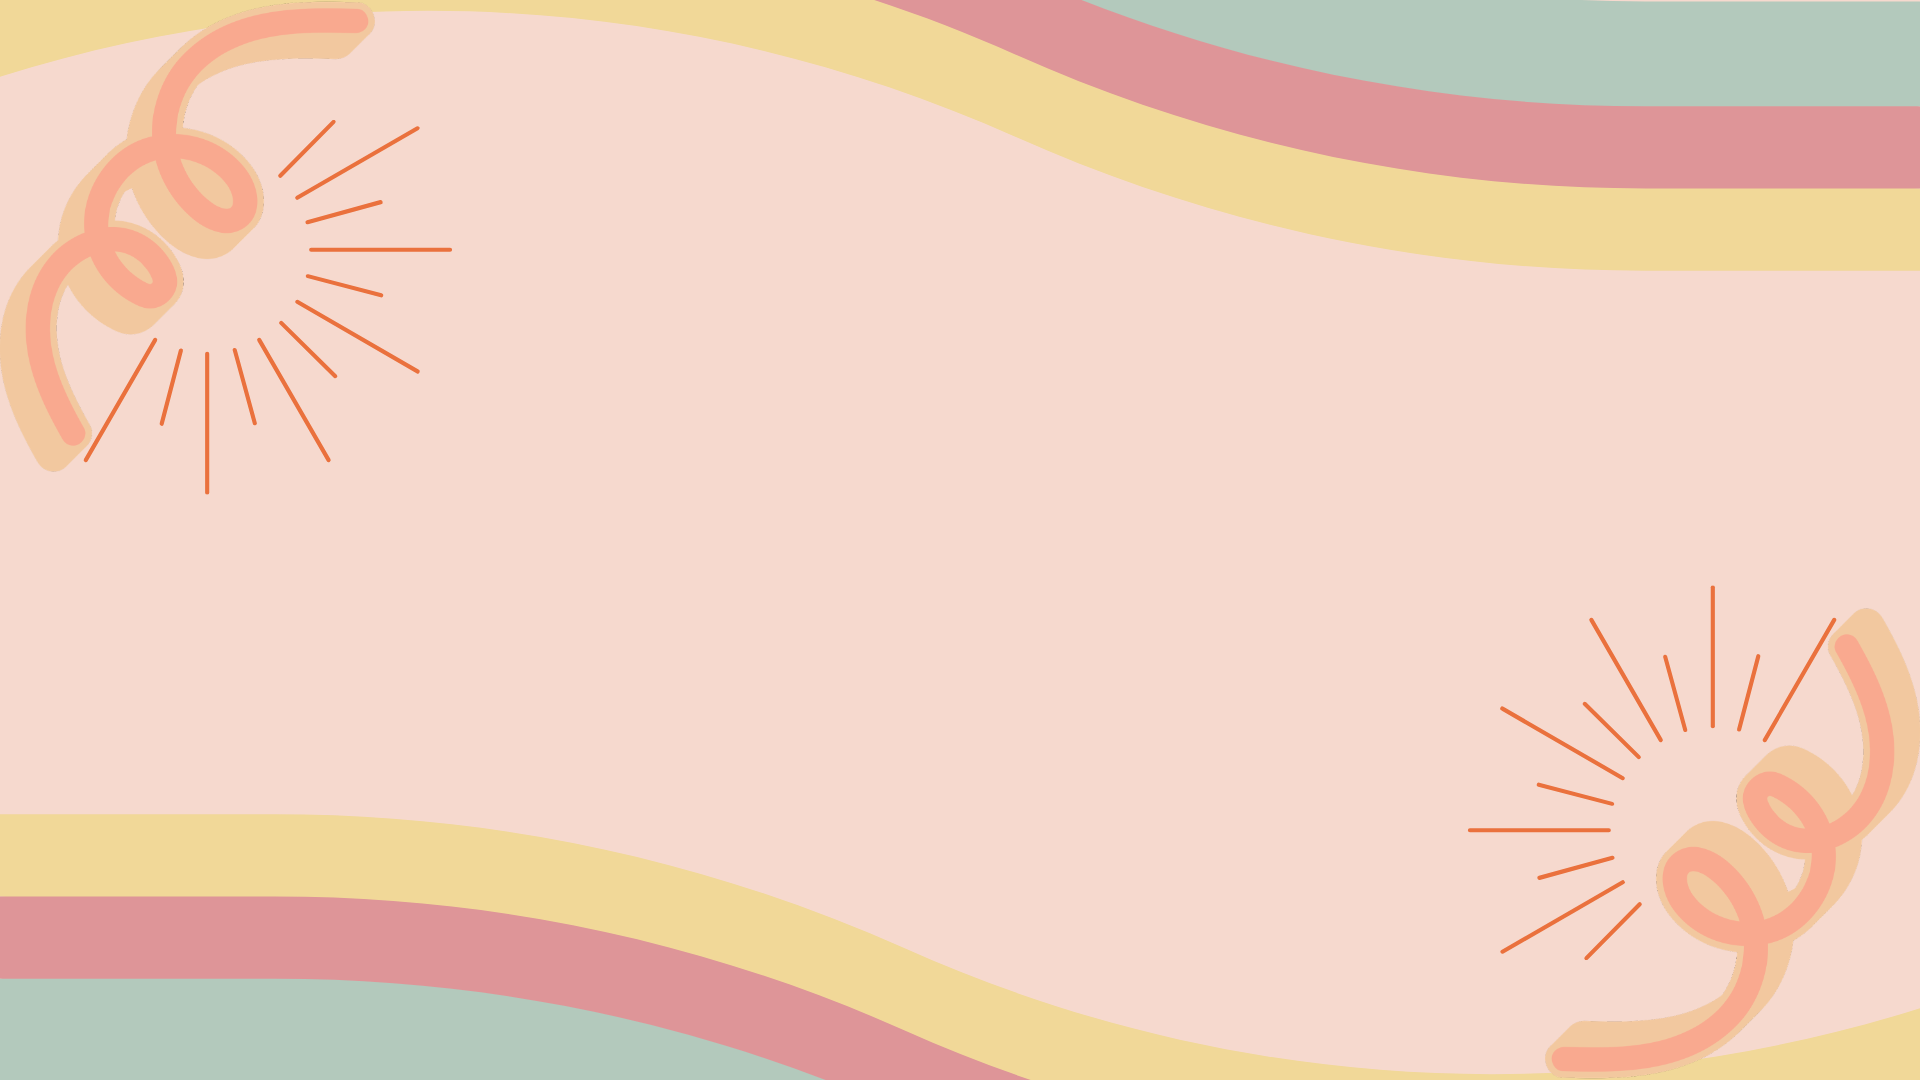
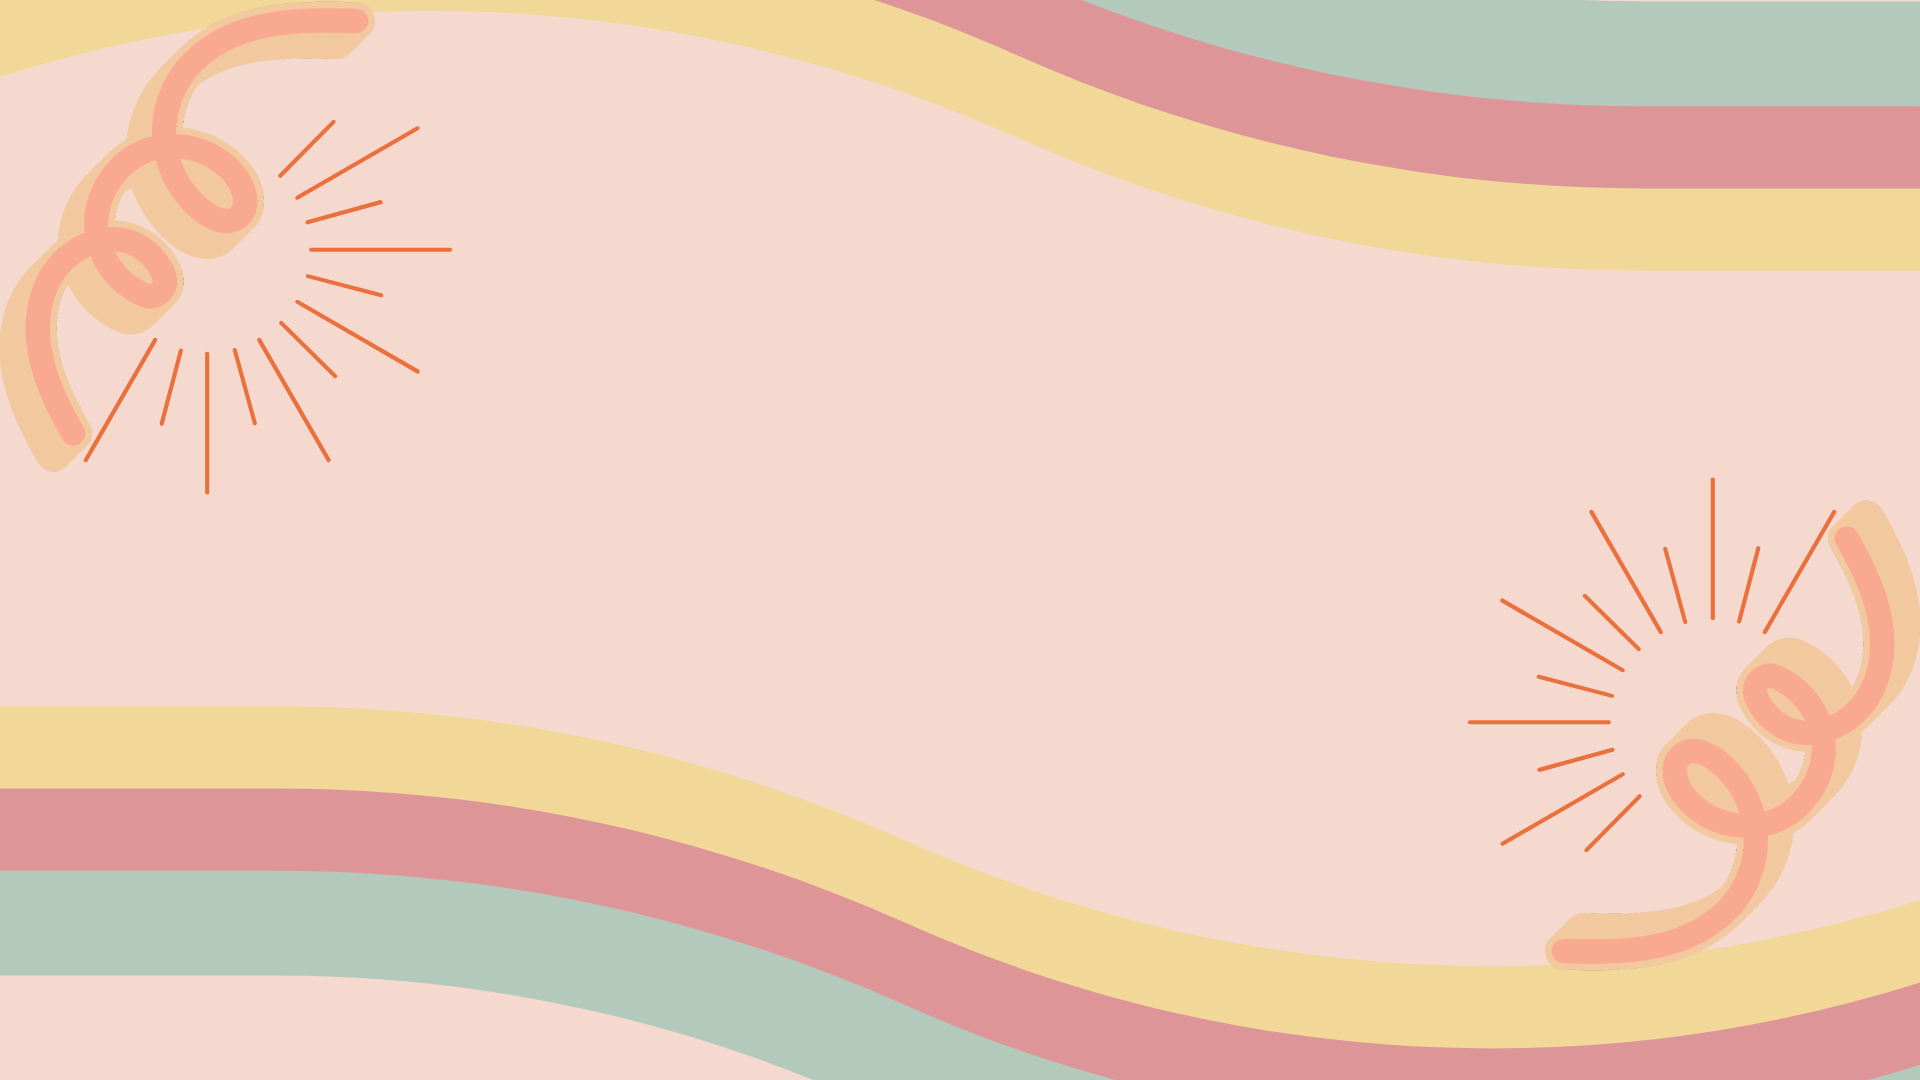
Adjust BG Photo

Changed region(s): [[0.0, 0.4583, 1.0, 1.0]]

diff --git a/src/Pages/CSS/LoginPage.css b/src/Pages/CSS/LoginPage.css
@@ -1,8 +1,10 @@
 .loginsignup {
   width: 100%;
   height: 90vh;
-  background-image: url(/src/Components/Assets/bg login.png);
+  background-image: url(/src/Components/Assets/bg_login.png);
   padding-top: 100px;
+  background-repeat: no-repeat;
+  background-size: cover;
 }
 .loginsignup-container {
   width: 580px;
